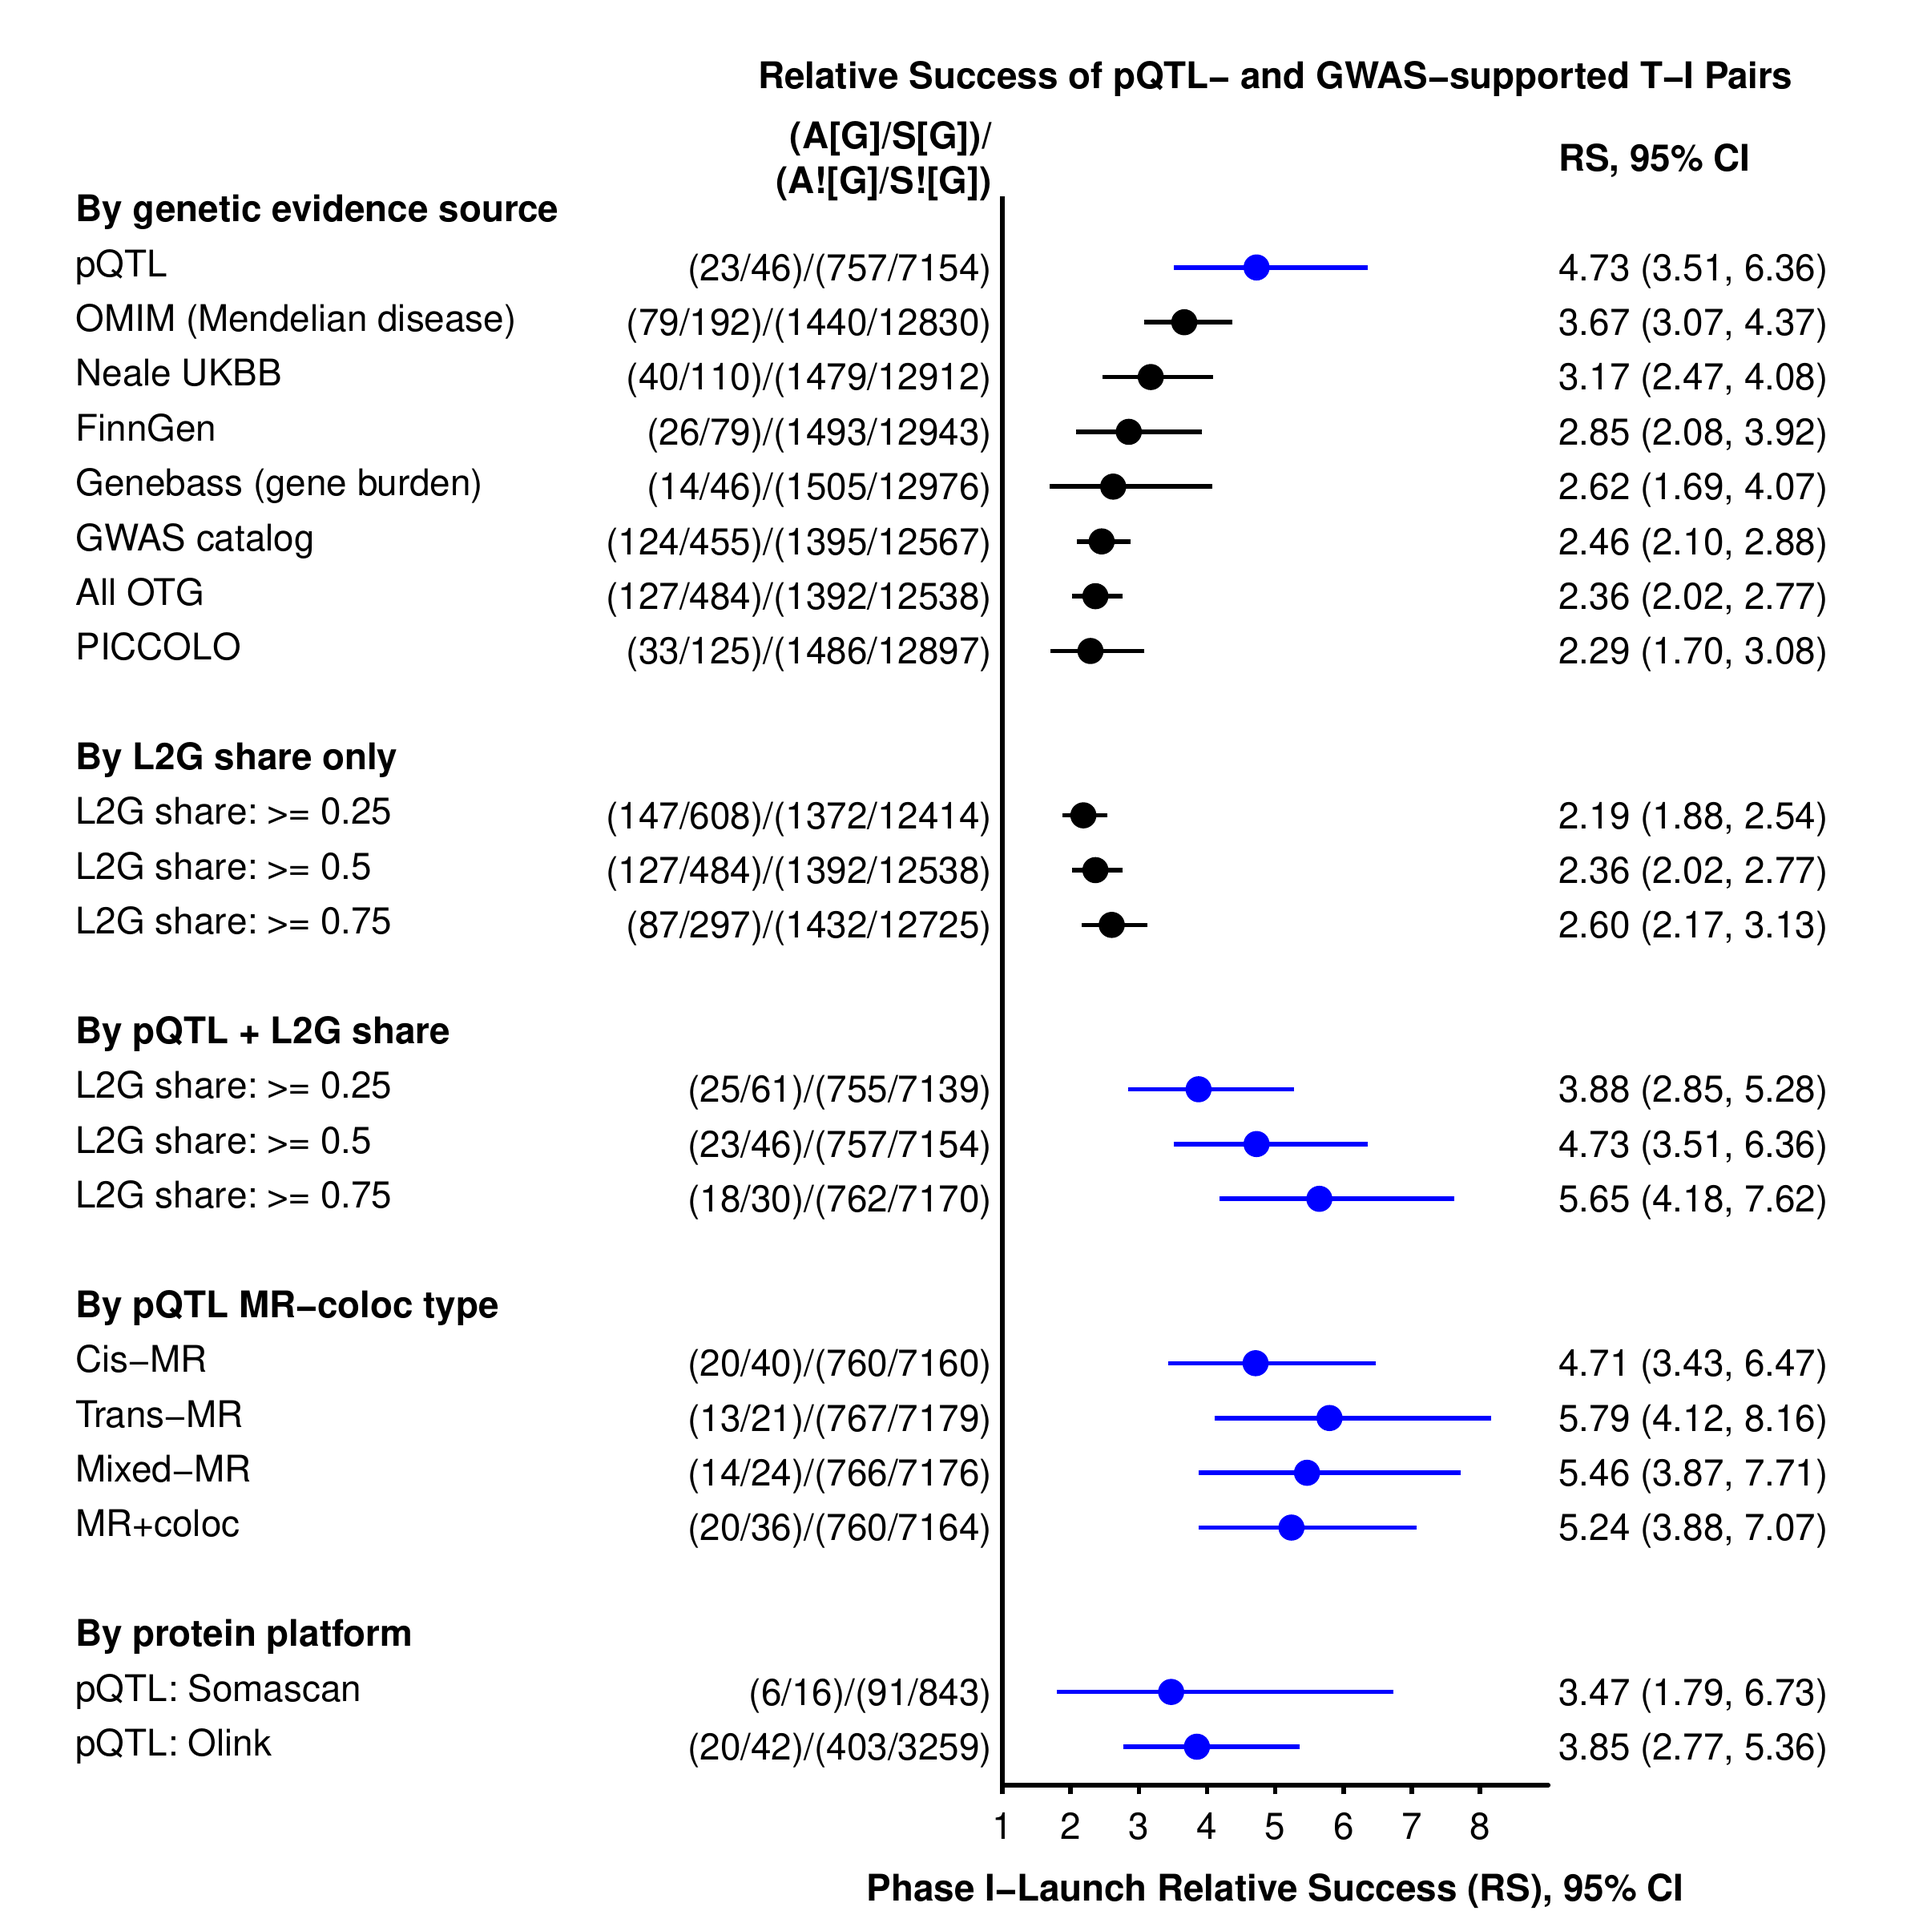
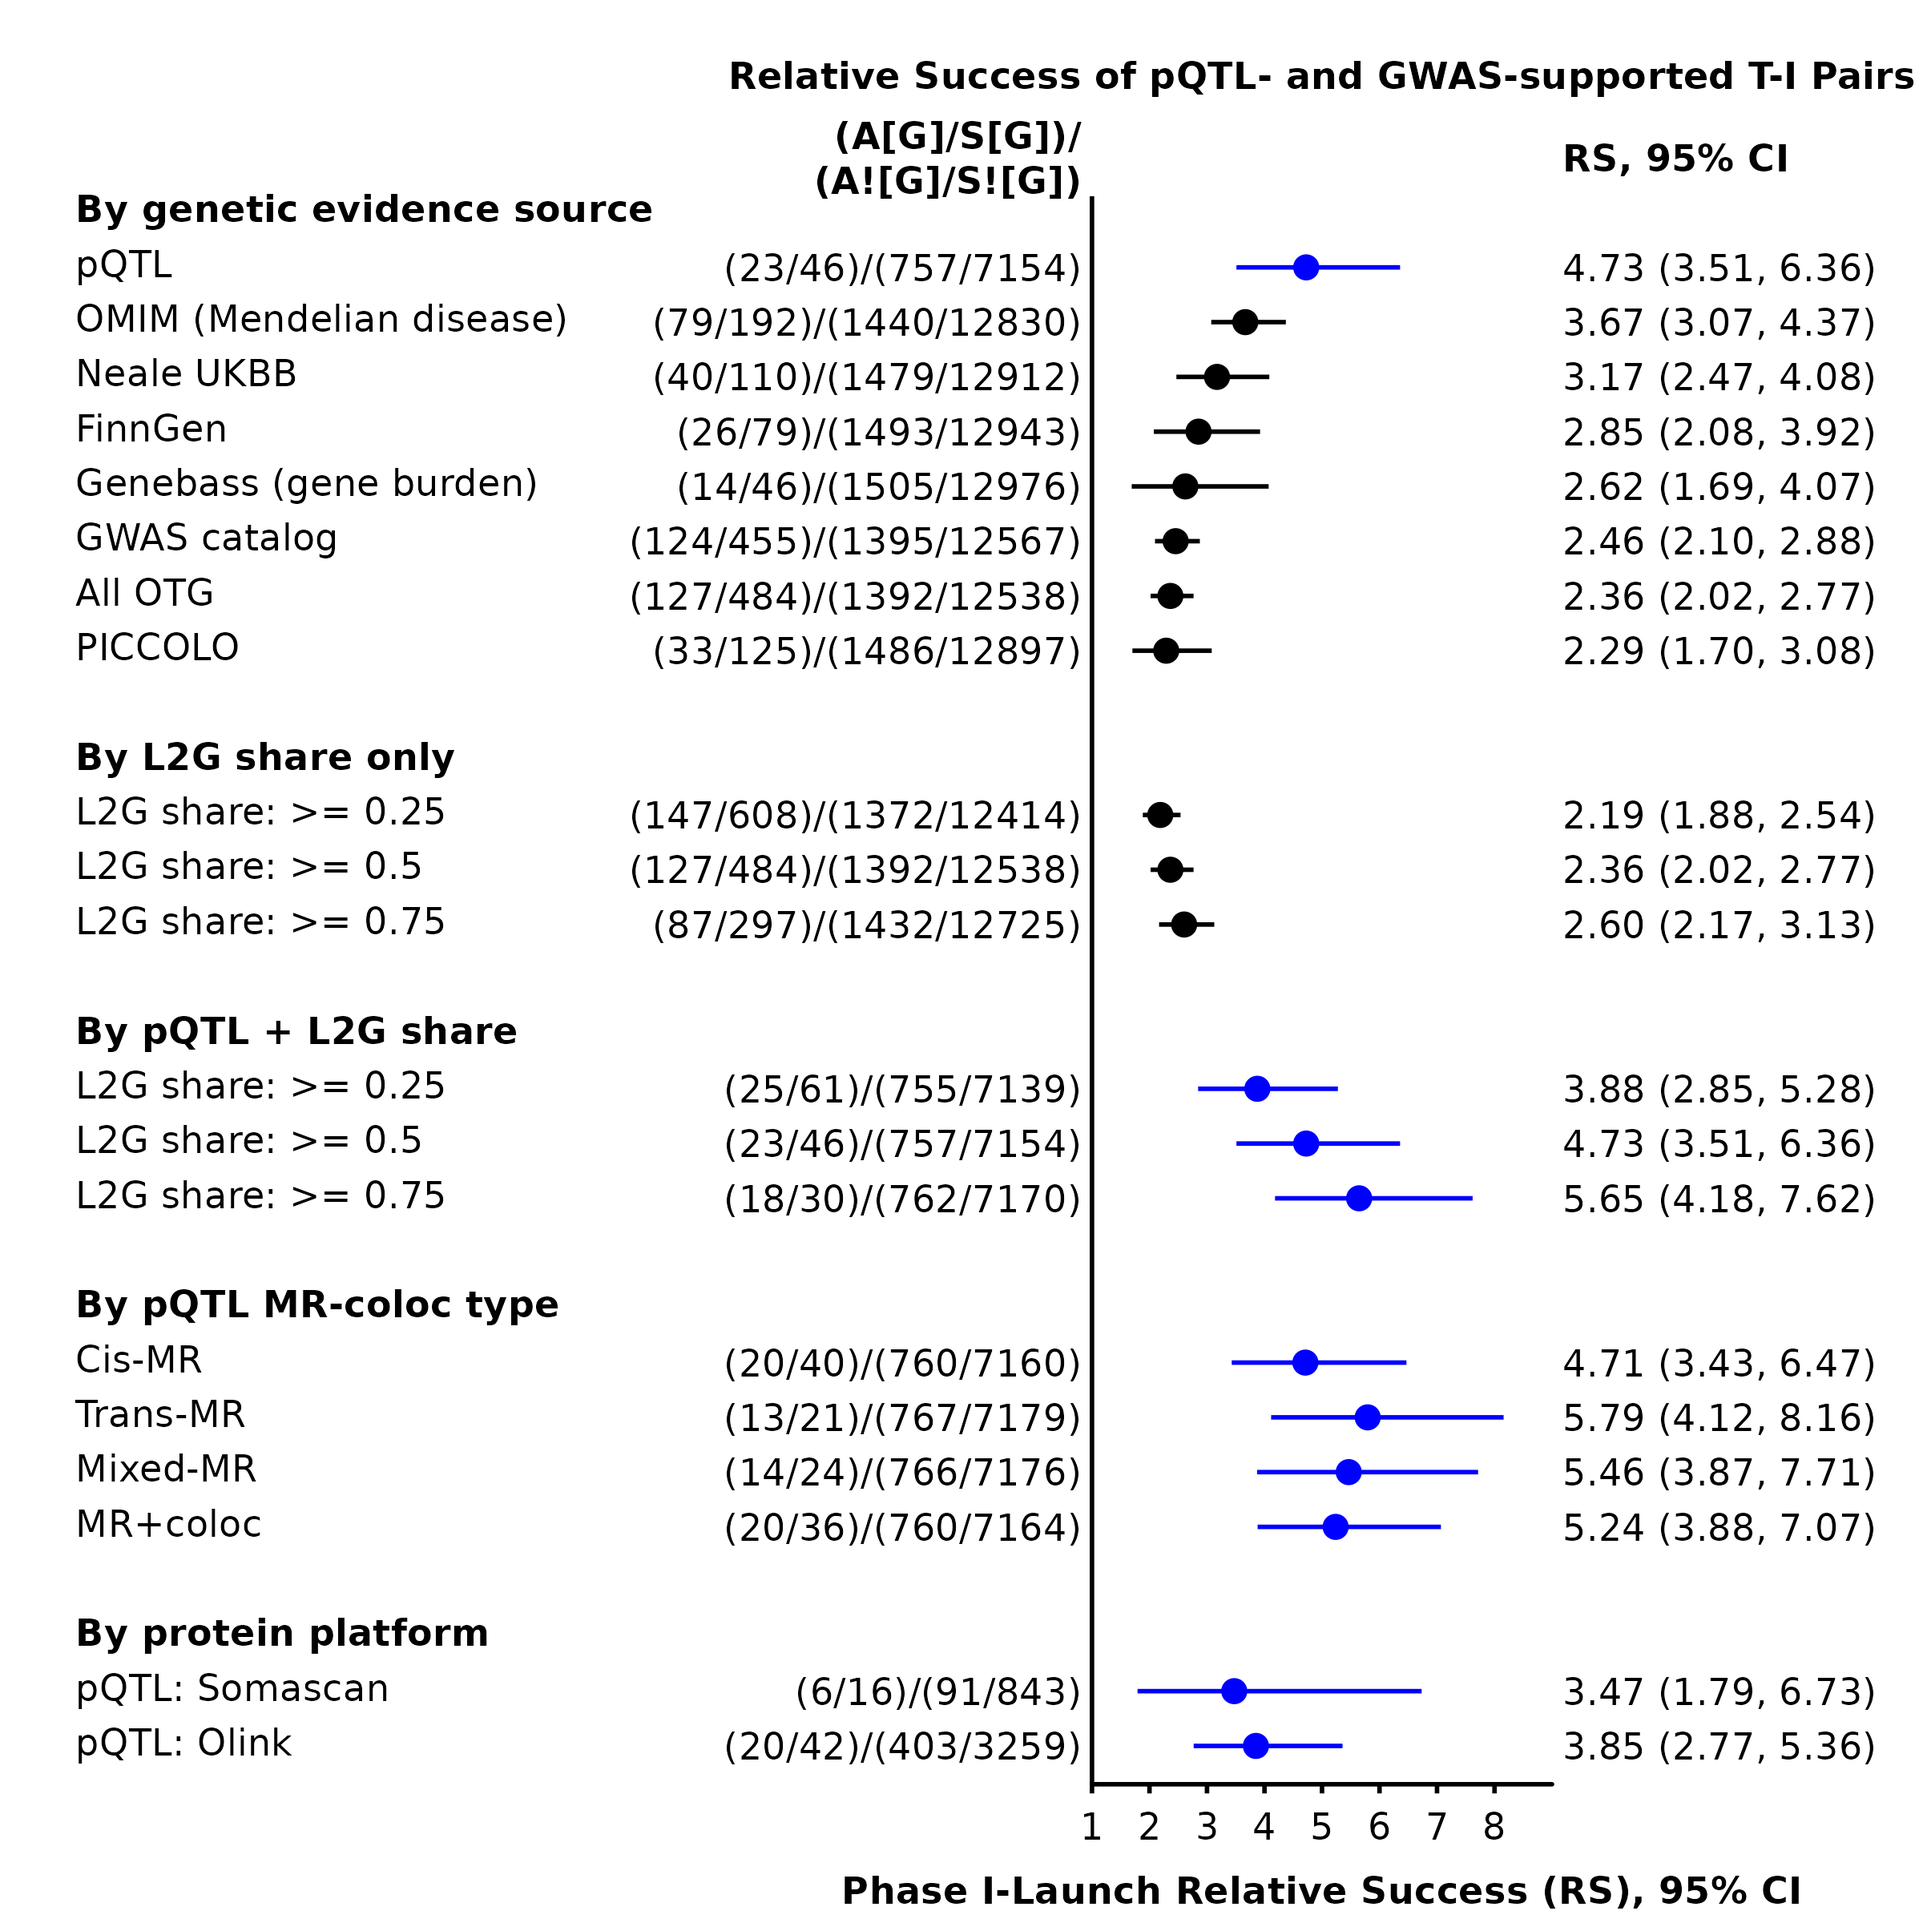
fix reference

diff --git a/README.md b/README.md
@@ -6,7 +6,7 @@ Code and data to reproduce analyses from:
 
 > **Impact of proteogenomic evidence on clinical success**  
 > Karim MA*, Hukku A, Ariano B, Holzinger E, Tsepilov Y, Hayhurst J, Buniello A, McDonagh EM, Castel SE, Nelson MR, Maranville J, Yerges-Armstrong L, Ghoussaini M*  
-> *Nature Genetics* (2025)
+> *Manuscript in preparation*
 
 ## Key Findings
 
@@ -131,9 +131,9 @@ BiocManager::install(c("AnnotationDbi", "org.Hs.eg.db"))
 @article{karim2025proteogenomic,
   title={Impact of proteogenomic evidence on clinical success},
   author={Karim, Mohd Anisul and Hukku, Abhay and Ariano, Bruno and others},
-  journal={Nature Genetics},
+  journal={Manuscript in preparation},
   year={2025},
-  doi={pending}
+  doi={}
 }
 ```
 
